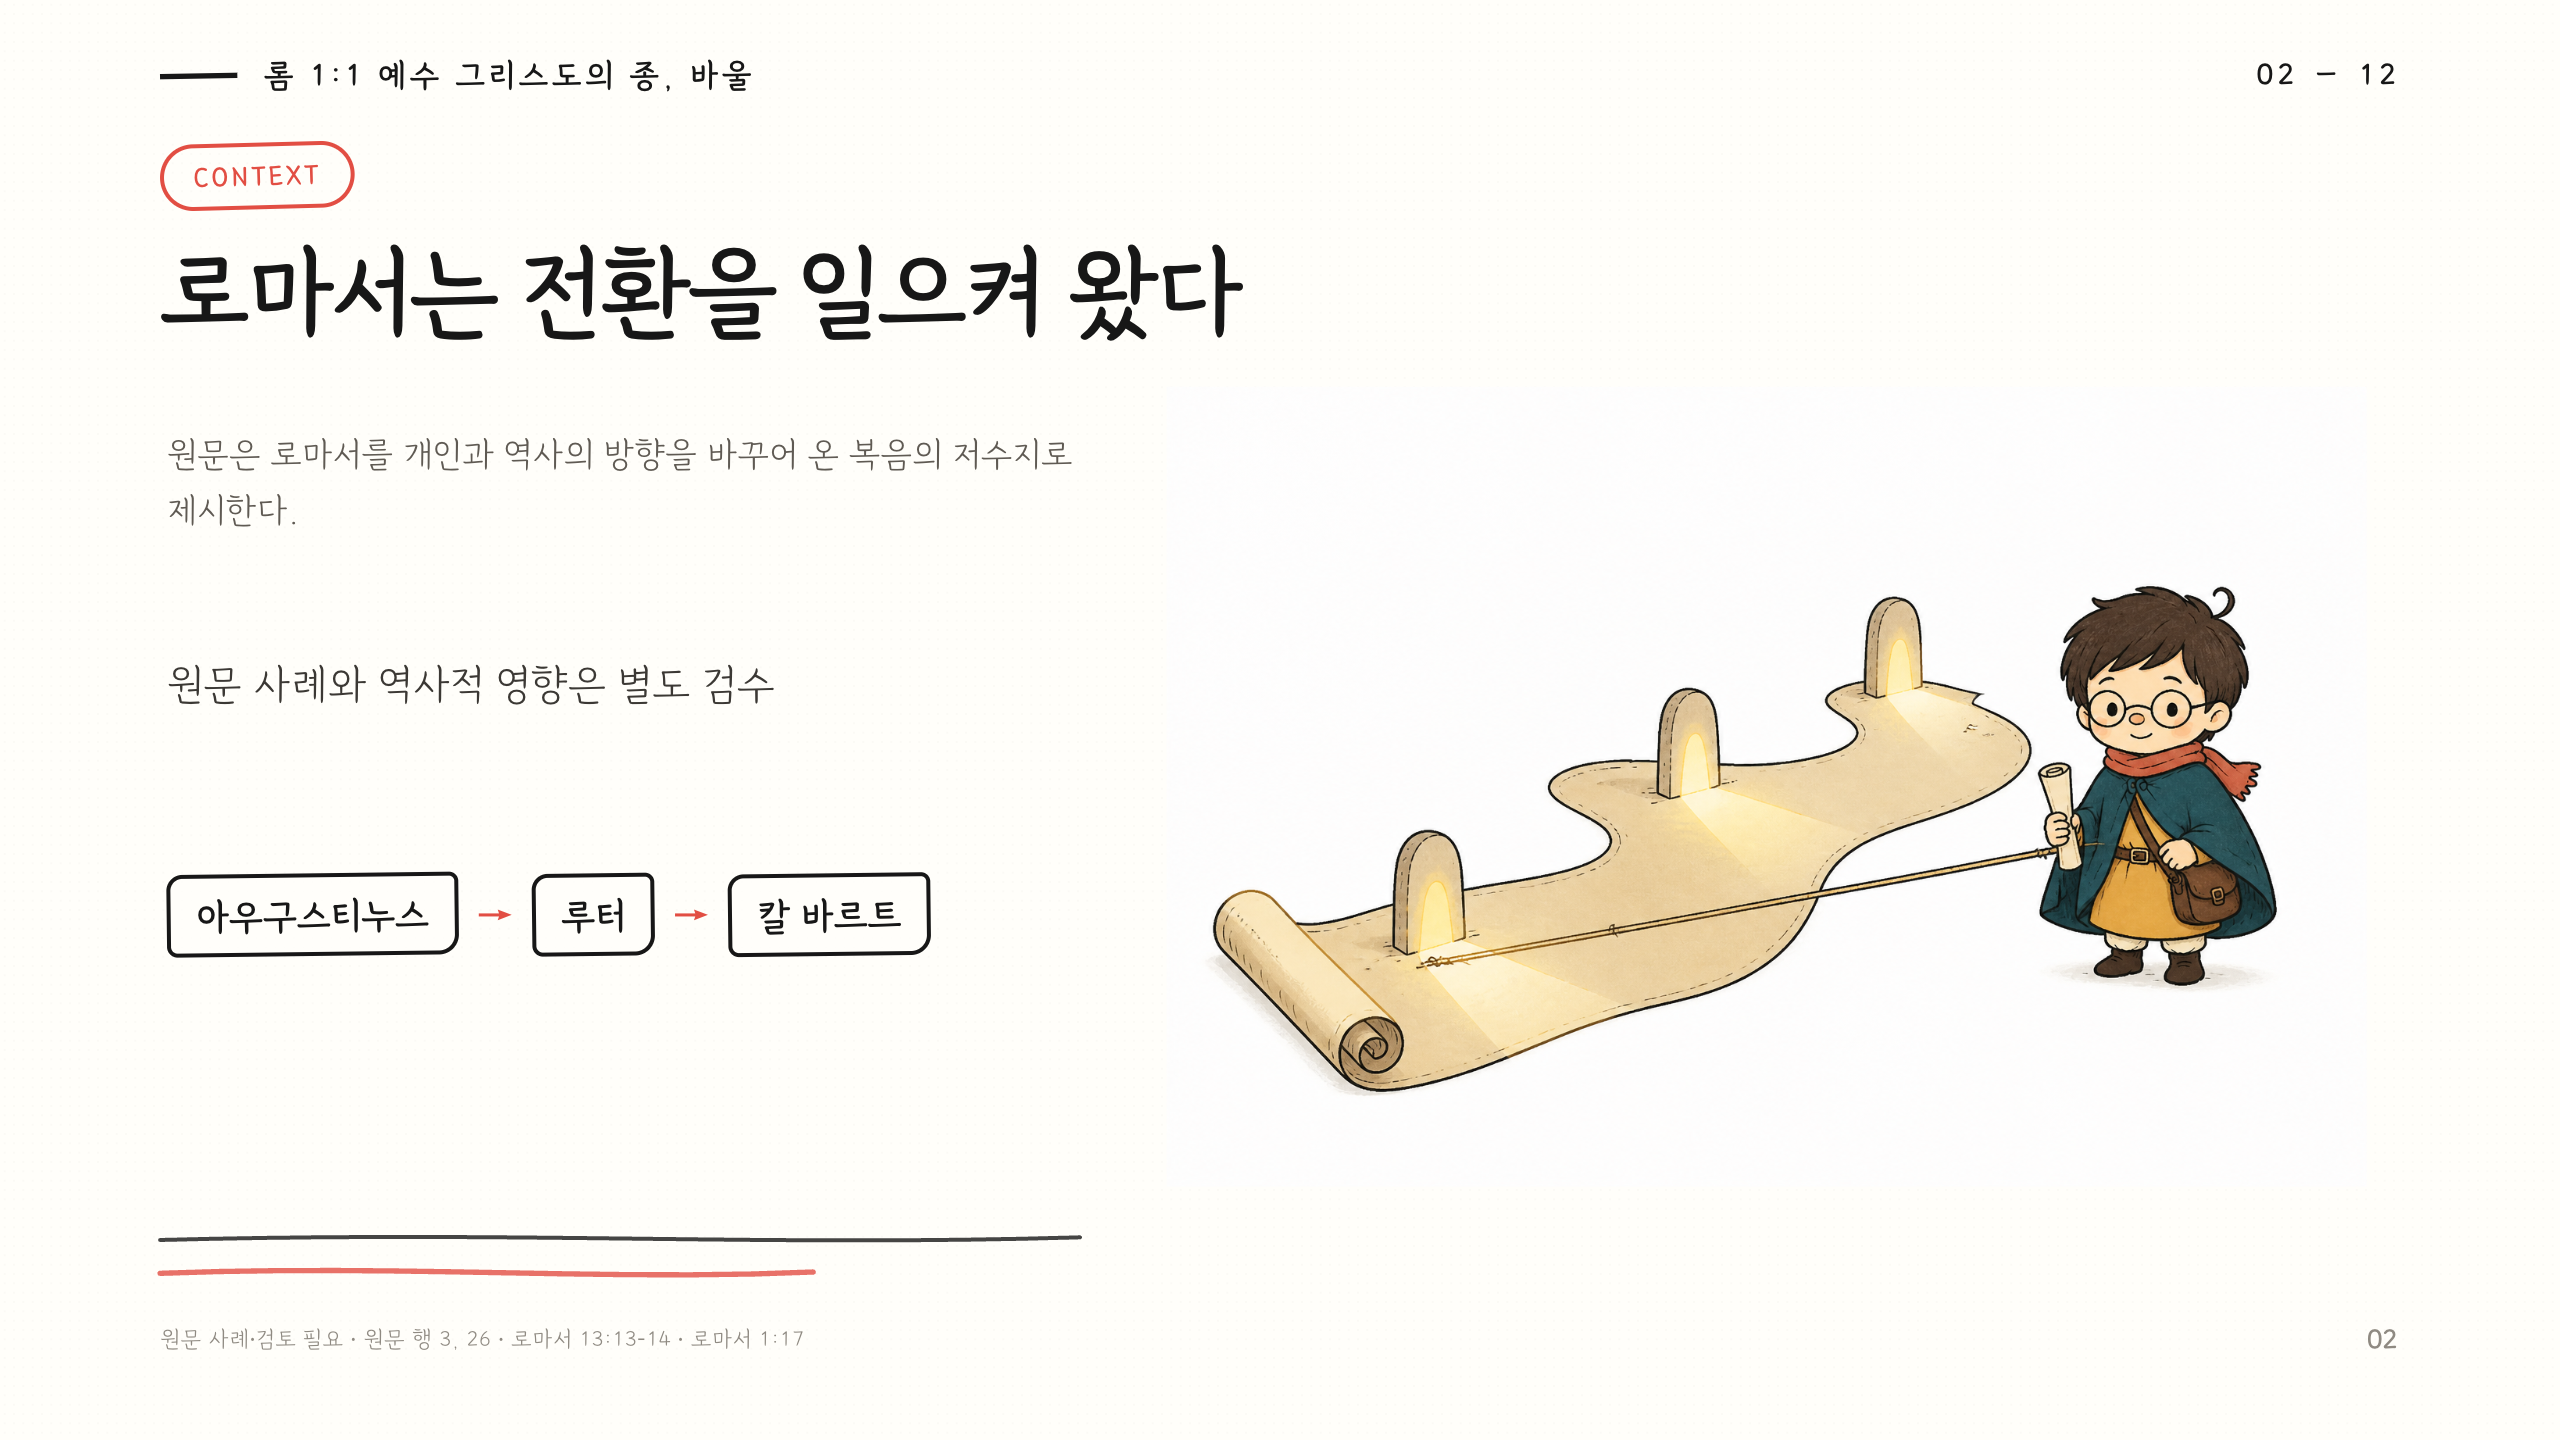
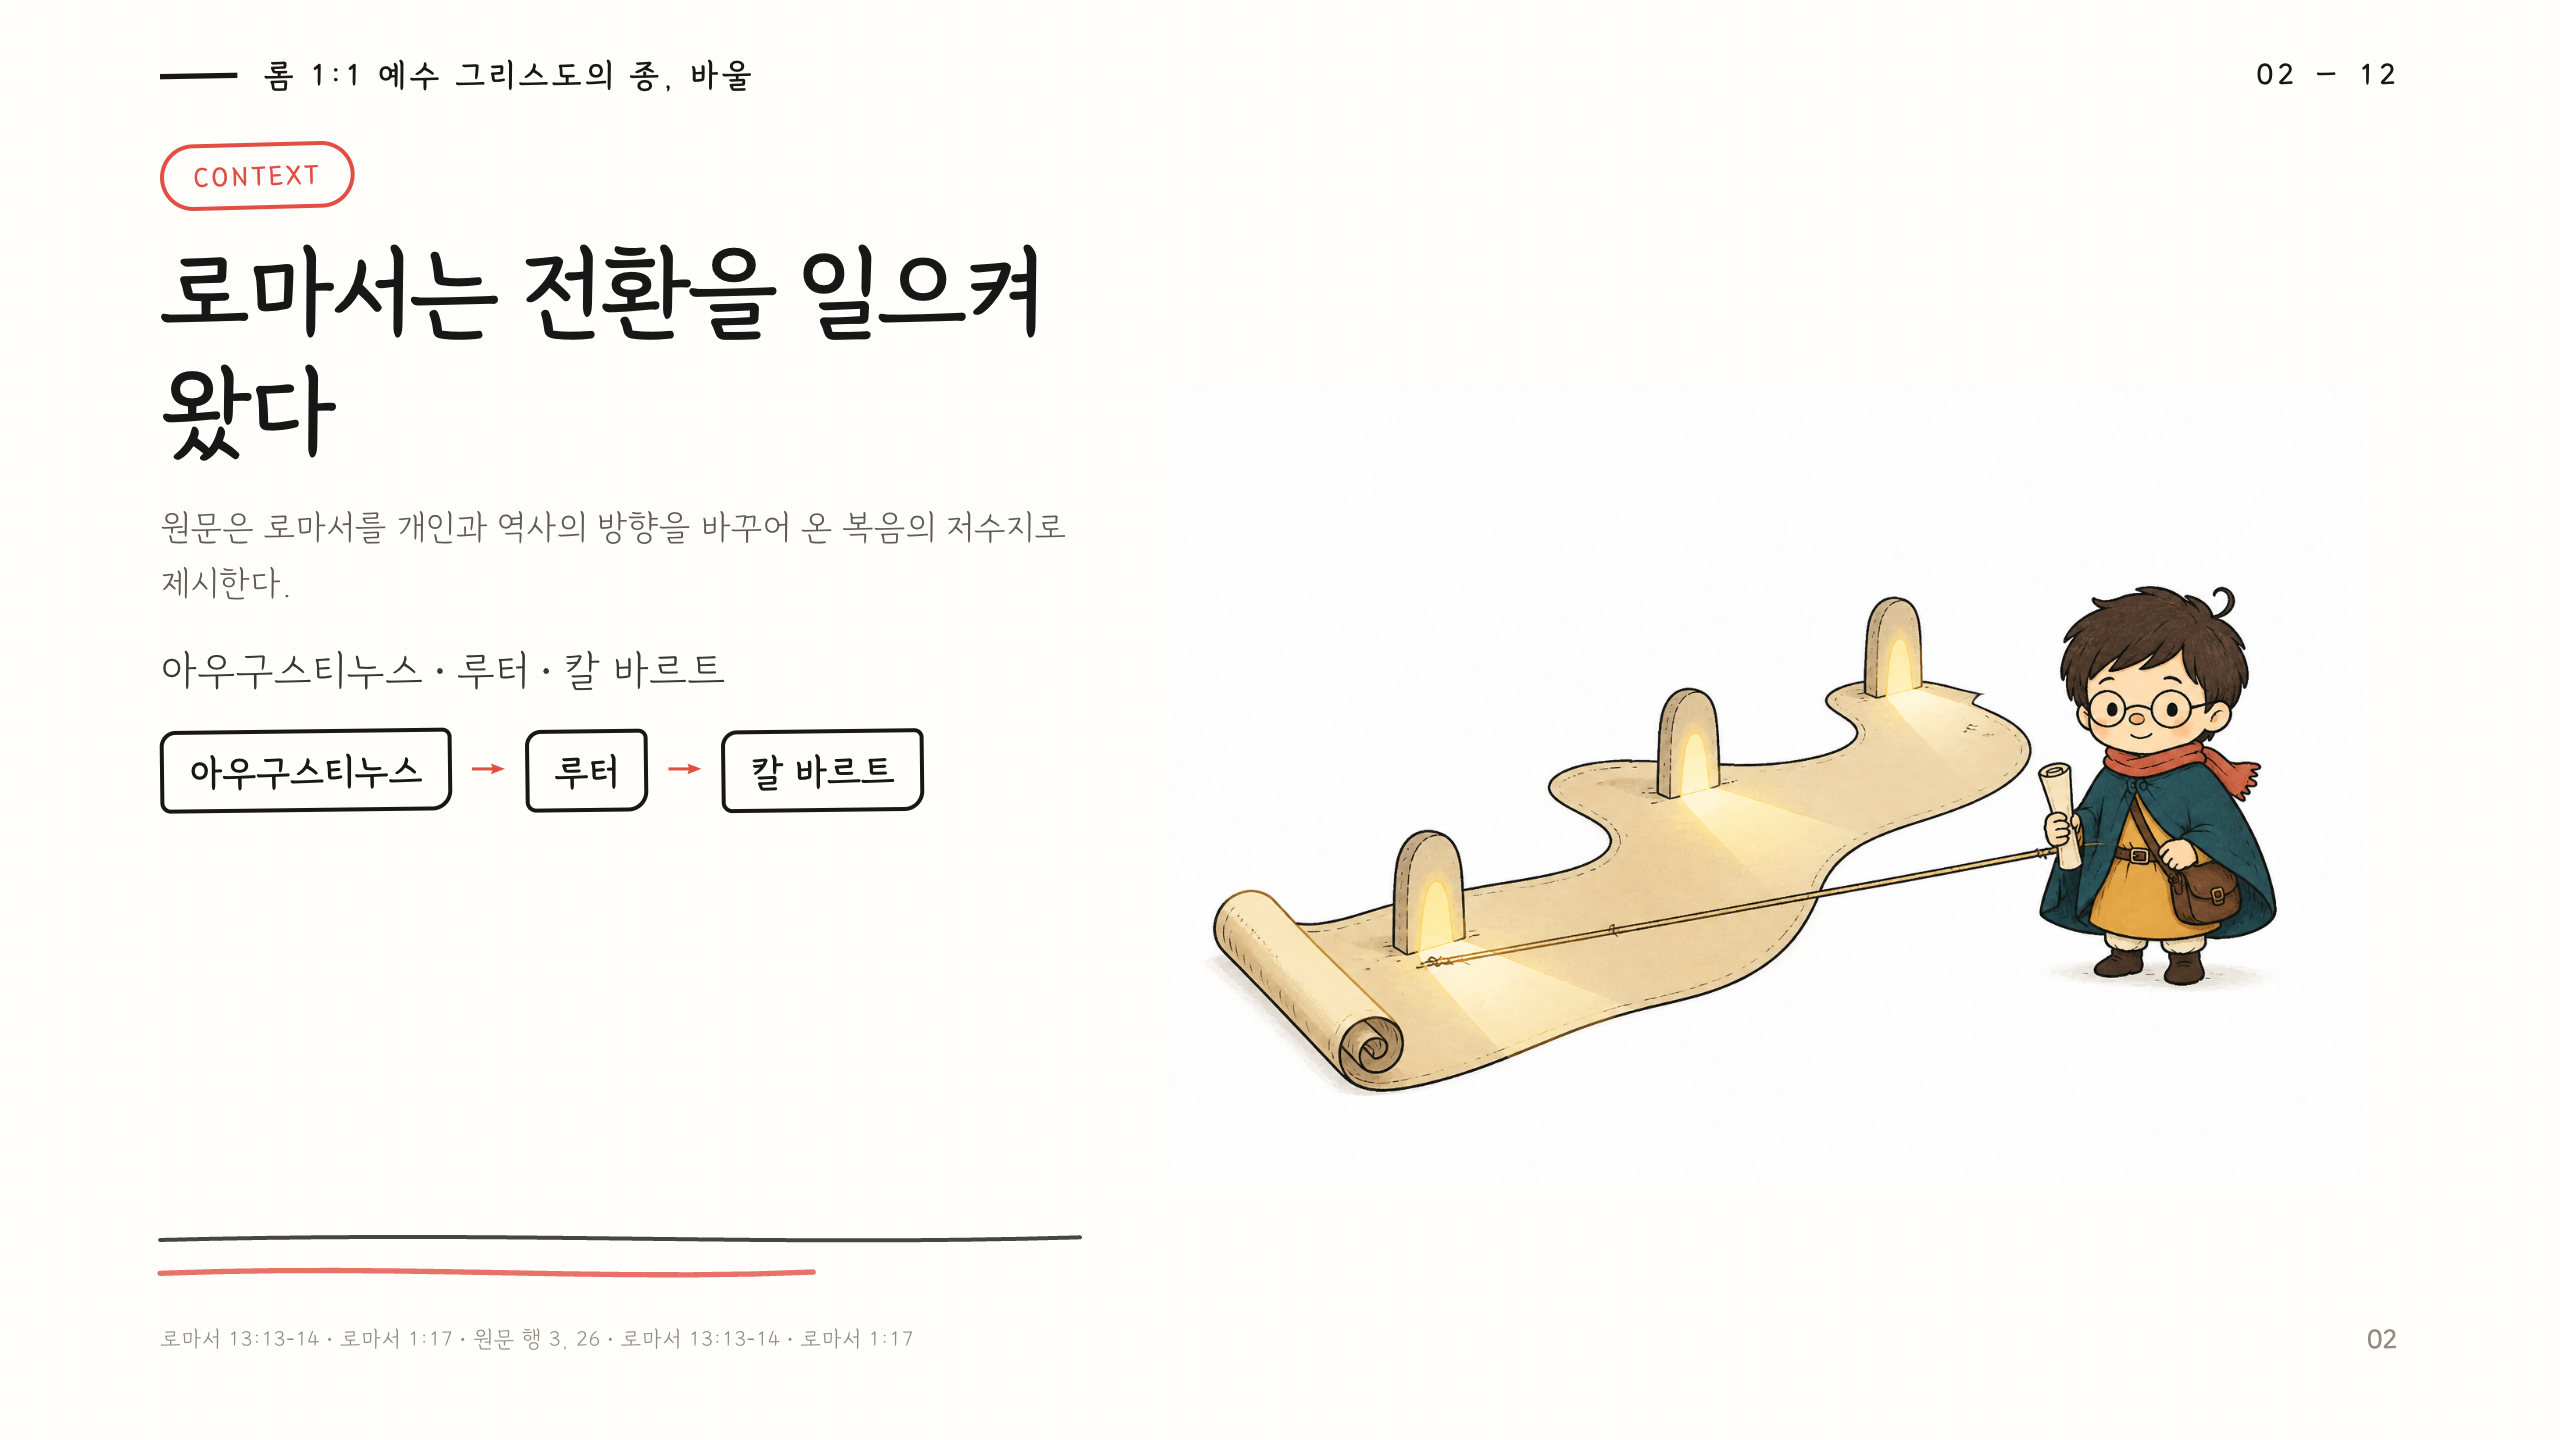
fix(citations): prevent internal review flags from leaking into public slide footers

diff --git a/scripts/render_html.py b/scripts/render_html.py
@@ -57,9 +57,26 @@ def rel_asset(source: Path, output: Path) -> str:
     return os.path.relpath(source.resolve(), output.parent.resolve()).replace(os.sep, "/")
 
 
+REVIEW_NOTE_KEYWORDS = ("검토 필요", "검증 필요", "확인 필요", "NEEDS-REVIEW", "검토필요", "검증필요")
+REVIEW_NOTE_PREFIXES = ("원문 추정", "원문 사례", "원문 주장", "어휘·역사", "명명 주체", "어원")
+
+
+def clean_source_text(text: str) -> str:
+    if not text:
+        return ""
+    raw_parts = [p.strip() for p in str(text).split("·")]
+    valid_parts = []
+    for part in raw_parts:
+        if any(kw in part for kw in REVIEW_NOTE_KEYWORDS) or part in REVIEW_NOTE_PREFIXES:
+            continue
+        if part:
+            valid_parts.append(part)
+    return " · ".join(valid_parts)
+
+
 def source_label(slide: dict) -> str:
     parts: list[str] = []
-    source = plain(slide.get("source")).strip()
+    source = clean_source_text(plain(slide.get("source")).strip())
     if source:
         parts.append(source)
     lines = slide.get("source_lines")
@@ -67,7 +84,10 @@ def source_label(slide: dict) -> str:
         parts.append("원문 행 " + ", ".join(str(line) for line in lines))
     refs = slide.get("primary_references")
     if isinstance(refs, list) and refs:
-        parts.append(" · ".join(str(ref) for ref in refs))
+        for ref in refs:
+            cleaned_ref = clean_source_text(str(ref).strip())
+            if cleaned_ref:
+                parts.append(cleaned_ref)
     return " · ".join(parts)
 
 

diff --git a/tests/test_html_pipeline.py b/tests/test_html_pipeline.py
@@ -14,7 +14,7 @@ if str(ROOT) not in sys.path:
     sys.path.insert(0, str(ROOT))
 
 from scripts.make_transparent import make_transparent  # noqa: E402
-from scripts.render_html import render  # noqa: E402
+from scripts.render_html import render, source_label  # noqa: E402
 from scripts.validate_outline import validate  # noqa: E402
 
 try:
@@ -28,6 +28,24 @@ CURRENT = ROOT / "output/rom00-1-1-2-gospel-v2-rough/deck-gangwon-bold.json"
 
 
 class HtmlPipelineTests(unittest.TestCase):
+    def test_source_label_sanitizes_internal_review_flags(self) -> None:
+        slide1 = {"source": "마태복음 2:13 · 원문 추정·검토 필요"}
+        self.assertEqual(source_label(slide1), "마태복음 2:13")
+        slide2 = {"source": "사도행전 11:26", "primary_references": ["명명 주체·어원 검토 필요"]}
+        self.assertEqual(source_label(slide2), "사도행전 11:26")
+
+    def test_validate_rejects_internal_review_flags_in_source(self) -> None:
+        with tempfile.TemporaryDirectory() as temporary:
+            root = Path(temporary)
+            data = json.loads(FIXTURE.read_text(encoding="utf-8"))
+            data["slides"][0]["source"] = "마태복음 2:13 · 검토 필요"
+            deck = root / "deck.json"
+            deck.write_text(json.dumps(data), encoding="utf-8")
+
+            errors = validate(deck)
+
+        self.assertTrue(any("internal review flag" in e for e in errors), errors)
+
     def test_fixture_remains_valid(self) -> None:
         self.assertEqual(validate(FIXTURE), [])
 

diff --git a/scripts/render_pptx.py b/scripts/render_pptx.py
@@ -97,12 +97,30 @@ def _image(slide, path: Path, x, y, w, h, Inches):
     slide.shapes.add_picture(str(path), Inches(x + (w - iw) / 2), Inches(y + (h - ih) / 2), width=Inches(iw), height=Inches(ih))
 
 
+REVIEW_NOTE_KEYWORDS = ("검토 필요", "검증 필요", "확인 필요", "NEEDS-REVIEW", "검토필요", "검증필요")
+REVIEW_NOTE_PREFIXES = ("원문 추정", "원문 사례", "원문 주장", "어휘·역사", "명명 주체", "어원")
+
+
+def clean_source_text(text: str) -> str:
+    if not text:
+        return ""
+    raw_parts = [p.strip() for p in str(text).split("·")]
+    valid_parts = []
+    for part in raw_parts:
+        if any(kw in part for kw in REVIEW_NOTE_KEYWORDS) or part in REVIEW_NOTE_PREFIXES:
+            continue
+        if part:
+            valid_parts.append(part)
+    return " · ".join(valid_parts)
+
+
 def _source(slide, item, body_font, Inches, Pt, RGBColor):
-    source = item.get("source")
+    raw_source = item.get("source") or ""
+    source = clean_source_text(raw_source)
     lines = item.get("source_lines")
     if lines:
         suffix = f" · 원문 {min(lines)}–{max(lines)}행"
-        source = f"{source or ''}{suffix}".strip(" ·")
+        source = f"{source}{suffix}".strip(" ·")
     if source:
         frame = _box(slide, M, 6.78, W - 2 * M, 0.32, Inches)
         _write(frame, source, font=body_font, size=8.5, color=GREY, Pt=Pt, RGBColor=RGBColor, line=1.05)

diff --git a/scripts/validate_outline.py b/scripts/validate_outline.py
@@ -99,6 +99,11 @@ def validate(path: Path) -> list[str]:
                 errors.append(f"{prefix}: image not found: {image}")
         if len(str(slide.get("headline", ""))) > 72:
             errors.append(f"{prefix}: headline is too long for a slide")
+        source_text = str(slide.get("source", ""))
+        refs = slide.get("primary_references") or []
+        ref_text = " ".join(str(r) for r in refs) if isinstance(refs, list) else ""
+        if any(flag in source_text or flag in ref_text for flag in ("검토 필요", "검증 필요", "NEEDS-REVIEW", "확인 필요")):
+            errors.append(f"{prefix}: public source or primary_references contains internal review flag; review notes belong in speaker_notes or claim-ledger.json")
     return errors
 
 

diff --git a/references/review-checklist.md b/references/review-checklist.md
@@ -37,6 +37,7 @@
 - [ ] 각 외부 사실, 날짜, 인명, 숫자, 번역·어원 주장이 검증되었거나 `NEEDS-REVIEW`로 표시되었는가?
 - [ ] 직접 인용, 원문 주장, 외부 사실, 해석, 추론, 적용이 서로 구분되는가?
 - [ ] 화면의 source footer와 speaker notes의 출처가 실제 source line/reference와 일치하는가?
+- [ ] 슬라이드 하단 source footer에 '검토 필요', 'NEEDS-REVIEW' 등 내부 검수 메모가 누출되지 않고 정제된 출처 표기만 노출되는가? → [source-and-citation.md](source-and-citation.md)
 - [ ] 성서·기타 1차 텍스트의 본문, 번역, 발표자의 해석이 섞여 단정적으로 보이지 않는가?
 - [ ] 민감한 종교·역사·집단 비교가 희화화나 무근거 일반화가 되지 않았는가? → [source-and-citation.md](source-and-citation.md)
 

diff --git a/references/source-and-citation.md b/references/source-and-citation.md
@@ -14,7 +14,7 @@ APPLICATION     recommended response or practice
 NEEDS-REVIEW    unresolved or disputed
 ```
 
-Never “correct” the author silently. Add a note such as “원문 주장; 별도 검증 필요” and offer a source check when it affects the slide’s conclusion.
+Never “correct” the author silently. Internal verification flags and review notes (e.g., `NEEDS-REVIEW`, `검토 필요`) must be recorded in `claim-ledger.json`, `risk_or_open_question`, or `speaker_notes`. They must NEVER be printed on the public slide footer (`source` or `primary_references`).
 
 ## Bible and other primary texts
 
